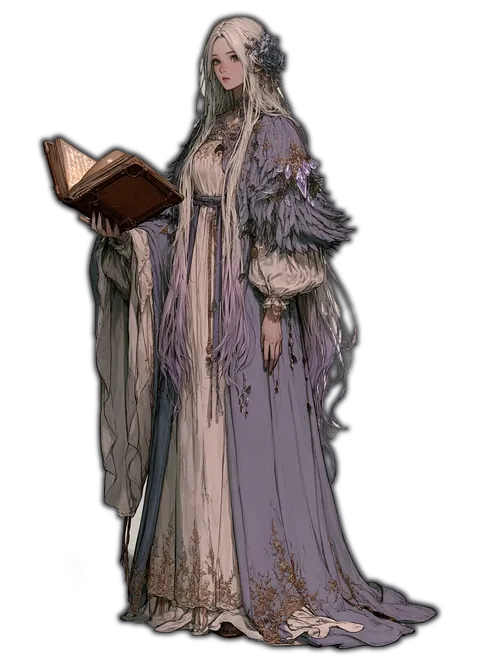
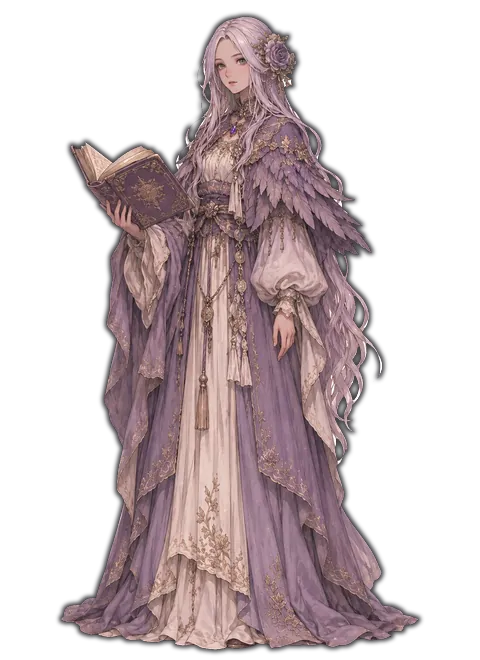
絵: 転職の立ち絵3枚（幻獣使いの男女、隠密・女）。中位26枚がそろう

diff --git a/scripts/art/build_art.py b/scripts/art/build_art.py
@@ -199,7 +199,7 @@ FACES.update({
 })
 # 穴埋め（fill_holes）をしない元画像。重装衛士は、細い槍を戻すため切り抜きを直している（.cut の絵を
 # scripts/art/fix_thin_cut.py で作り直し済み）。槍と足の間の背景が穴として埋まるので、穴埋めをしない
-NO_FILL_HOLES = {'bulwark-female', 'bulwark-male', 'lancer-male', 'lancer-female', 'archer-male', 'archer-female', 'tamer-male', 'tamer-female', 'archmage-male', 'archmage-female', 'hexer-male', 'hexer-female', 'brawler-male', 'brawler-female', 'phantomThief-male', 'phantomThief-female'}
+NO_FILL_HOLES = {'bulwark-female', 'bulwark-male', 'lancer-male', 'lancer-female', 'archer-male', 'archer-female', 'tamer-male', 'tamer-female', 'archmage-male', 'archmage-female', 'hexer-male', 'hexer-female', 'brawler-male', 'brawler-female', 'phantomThief-male', 'phantomThief-female', 'phantomTamer-male', 'phantomTamer-female', 'shadow-female'}
 # 表に無い職は、この値（x=0.5 は頭の位置を自動で探す）
 FACE_DEFAULT = (0.5, 0.085, 0.17)
 
